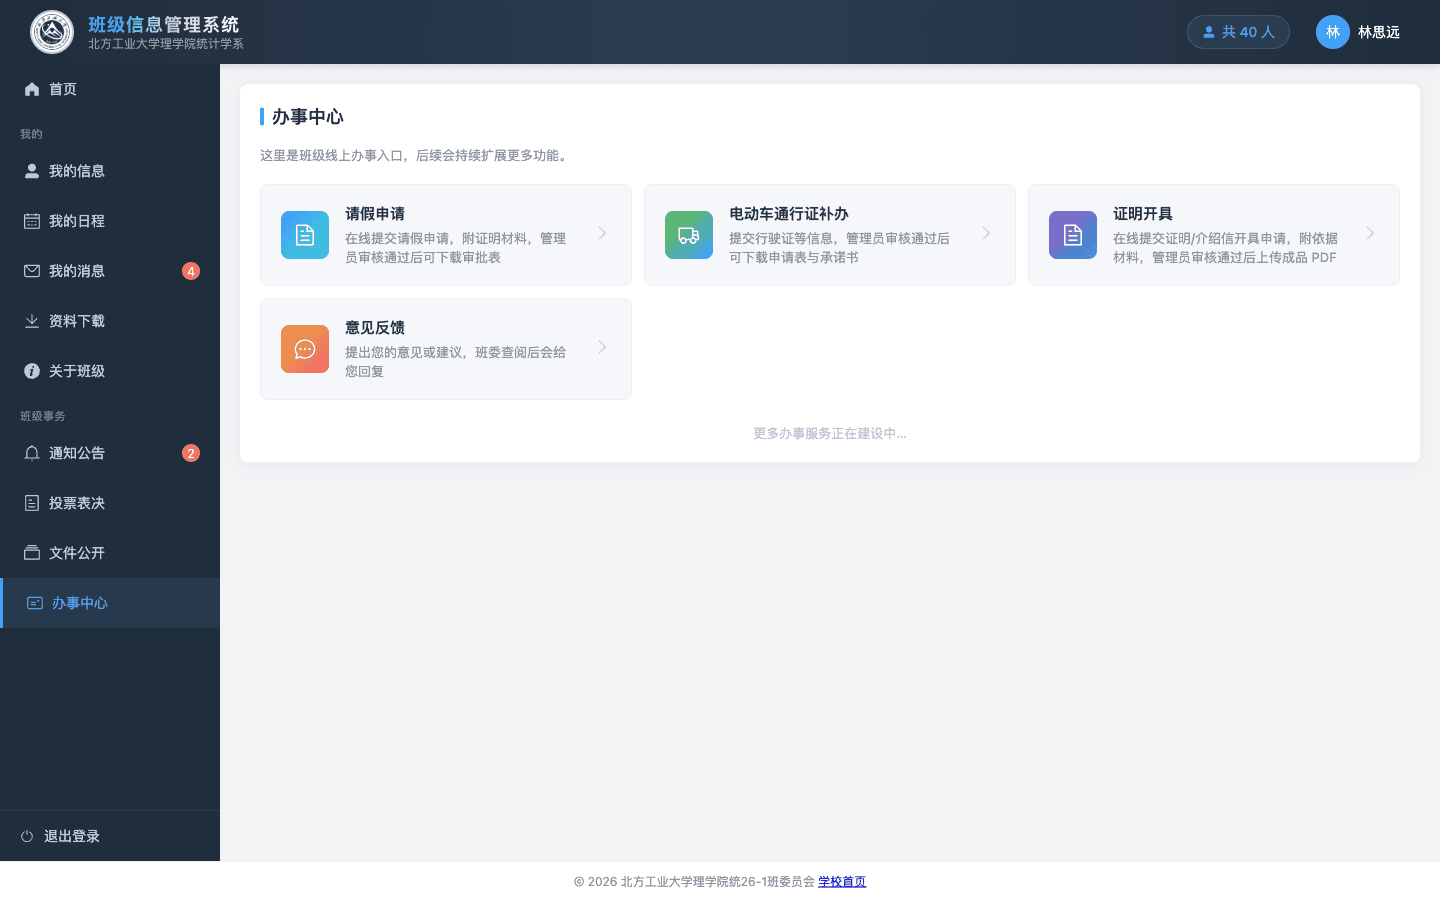
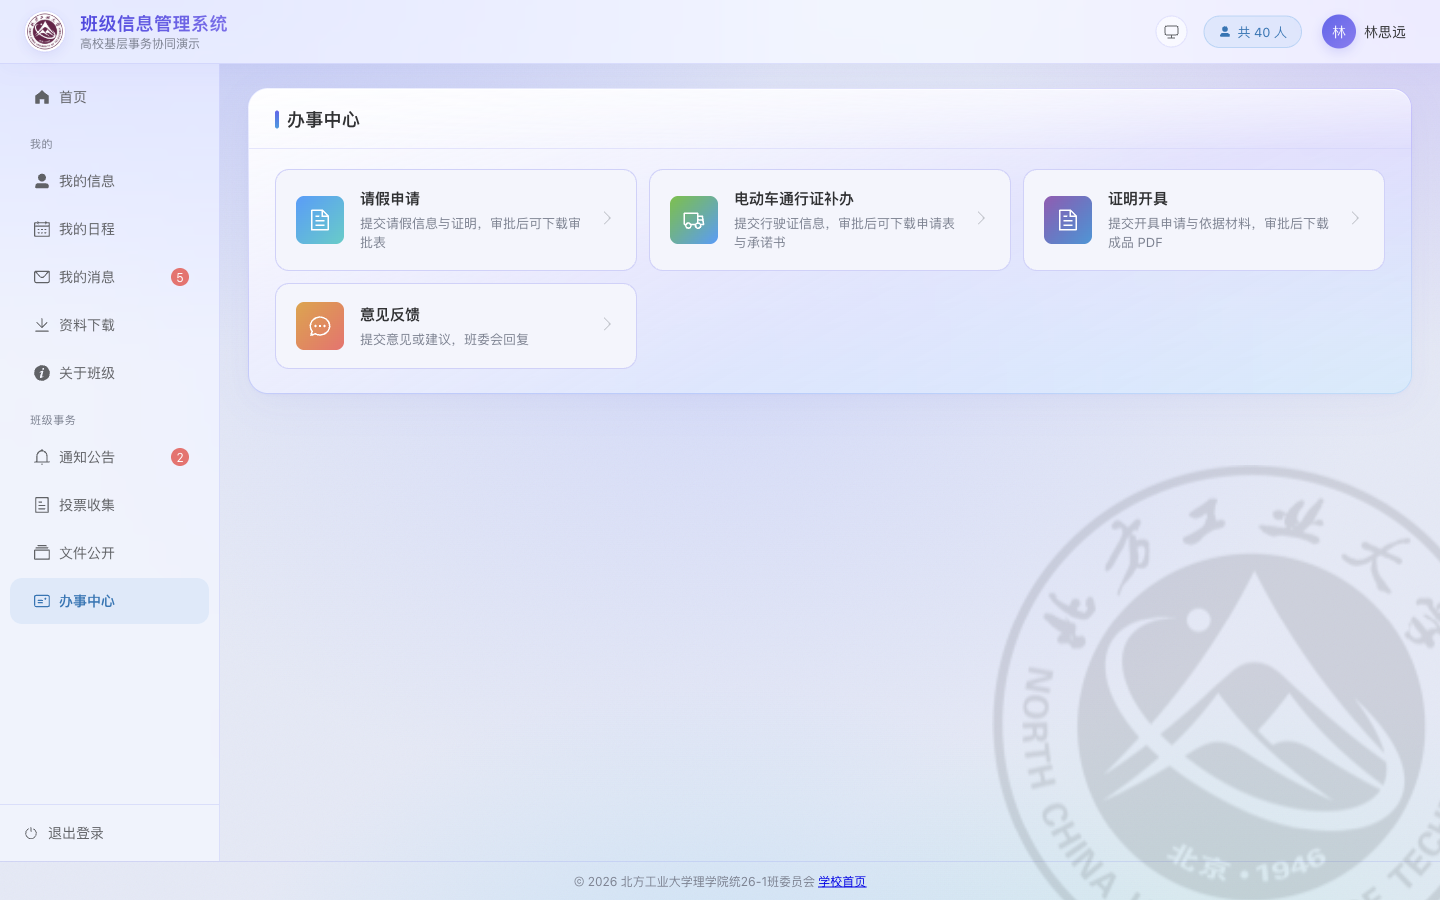
docs：更新使用手册与界面截图
涵盖毛玻璃主题、三档主题按钮、平板图标栏、收集页、档案查看申请、
证明选填与消息自动已读；文档截图全部换成当前界面。

diff --git a/docs/guide.md b/docs/guide.md
@@ -92,14 +92,17 @@
 
 登录后界面分四块：
 
-- **顶栏**：校徽、系统名称、全班人数、当前登录人。
+- **顶栏**：校徽、系统名称、主题按钮、全班人数、当前登录人。
+  主题按钮在「跟随系统 → 浅色 → 深色」三档之间循环，选择会记住。
 - **左侧菜单**：按「我的」「班级事务」「班级管理」「系统管理」分组。
   菜单只列出当前账号有权限的功能，看不到就是没有权限。
+  平板宽度（约 768–1100 像素）下菜单收成一列图标栏，悬停或点按展开文字。
 - **工作区**：当前页面的内容。
 - **页脚**：班级署名与学校链接。
 
-手机端会把菜单收进抽屉，表格改为可横向滑动。页面可以「添加到主屏幕」，
-从桌面图标打开时接近原生应用：
+手机端会把菜单收进抽屉，表格改为可横向滑动。弱网下首屏先出骨架，
+图片滚动到可视范围才下载；断网时顶部出现提示，恢复后可点「重新加载」。
+页面可以「添加到主屏幕」，从桌面图标打开时接近原生应用：
 
 <p align="center">
   <img src="images/mobile-home.png" width="240" alt="手机端首页">
@@ -115,6 +118,8 @@
 
 首页显示：班级总人数、男女人数、班委人数；有人过生日时的祝福条幅
 （未登录只显示人数，登录后才显示姓名）；快捷入口；最新通知。
+管理员配置天气后，还会多一张天气卡，显示当前温度、天气现象、今日最高最低温
+与官方预警；没配置时整张卡不出现。
 
 ### 3.2 我的信息
 
@@ -122,7 +127,7 @@
 
 - **基本信息**：学号、姓名、性别、民族、宿舍、联系方式等。信息不对时点「申请修改」，
   提交后由班委审核，通过后才真正生效。可申请修改的字段包括 QQ、邮箱、
-  本人电话、家庭电话、家庭地址、邮编、团学会职务、床位号。档案里**还没有身份证号**时，
+  本人电话、家庭电话、家庭地址、邮编、团学会职务、宿舍、床位号。档案里**还没有身份证号**时，
   表单里会多出「身份证号」一格，可以申请补充；一旦有了值，这一格就不再出现，
   想再改只能联系管理员。
   「申请修改」页里还能上传自己的**签字图**（请假单等材料落款用）：支持
@@ -169,6 +174,8 @@
 
 所有推送给自己的消息都会汇总到「我的消息」：通知公告、办件进度、审核结果、
 成绩发布、生日祝福。未读消息左侧有蓝点，可以一键全部标为已读。
+办件办结、文件下载、签到、投票、收集提交后，相关提醒会自动已读，
+未读列表里留下的都是真正还要处理的。
 
 ### 3.5 我的日程
 
